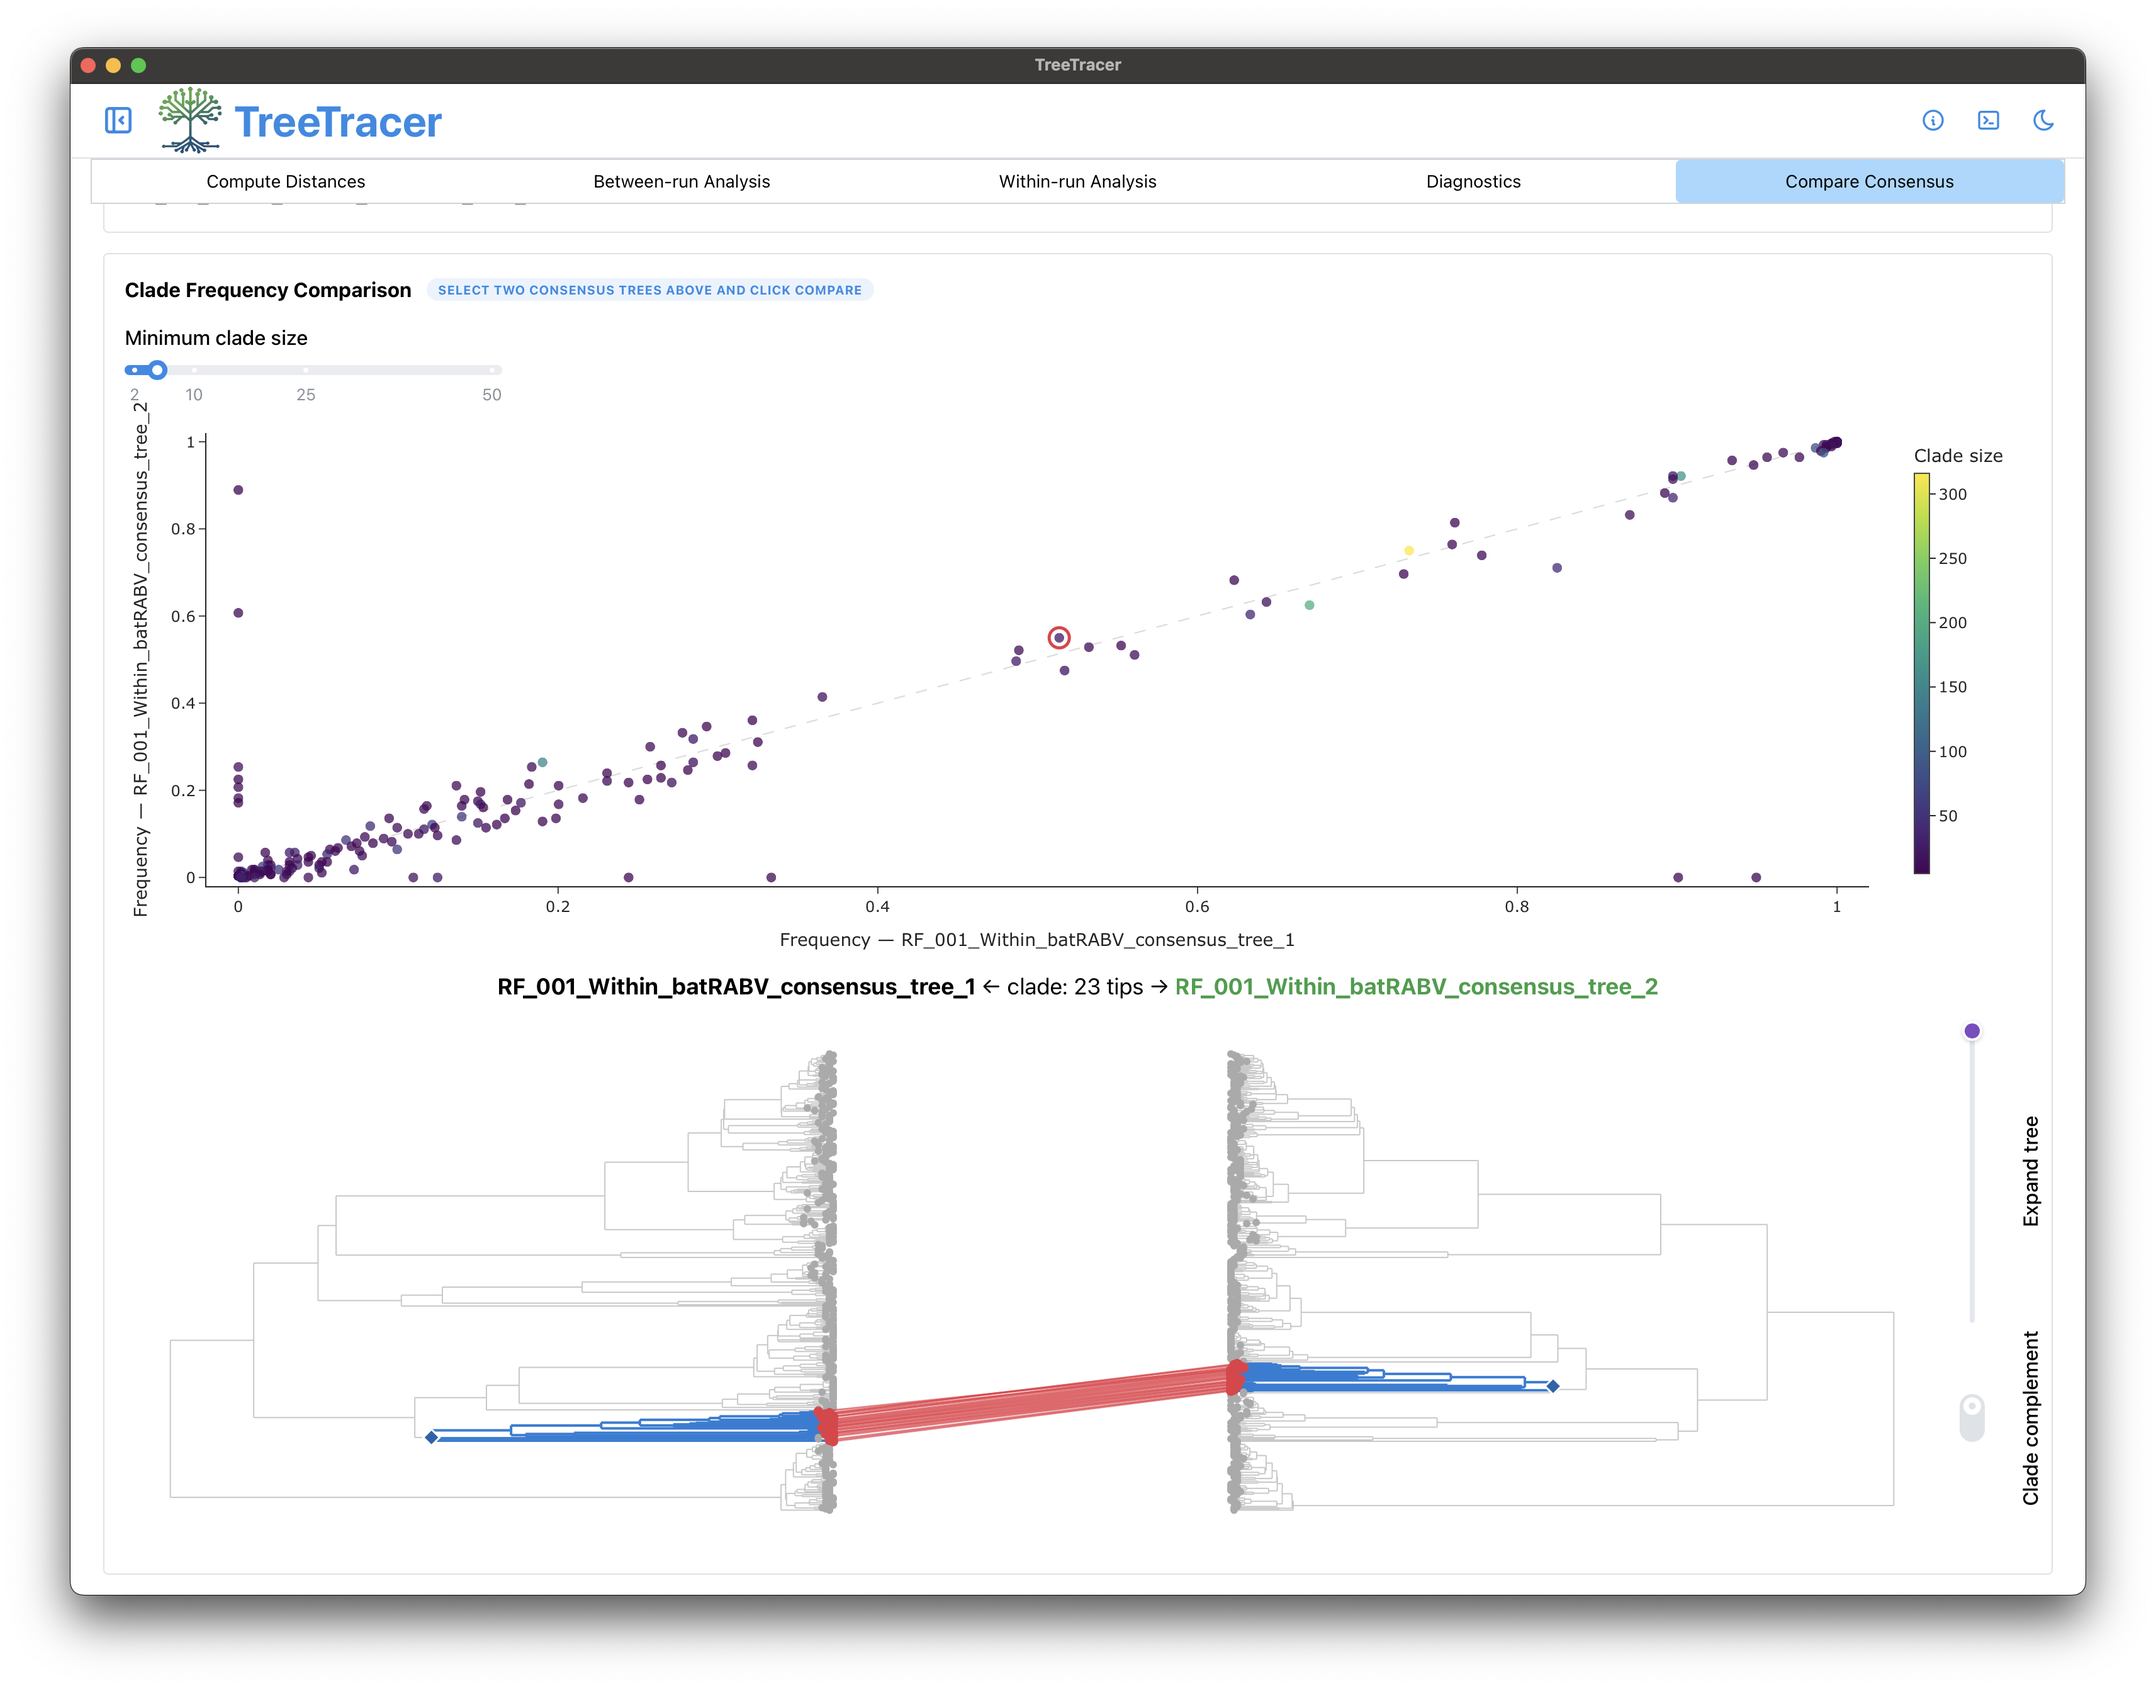
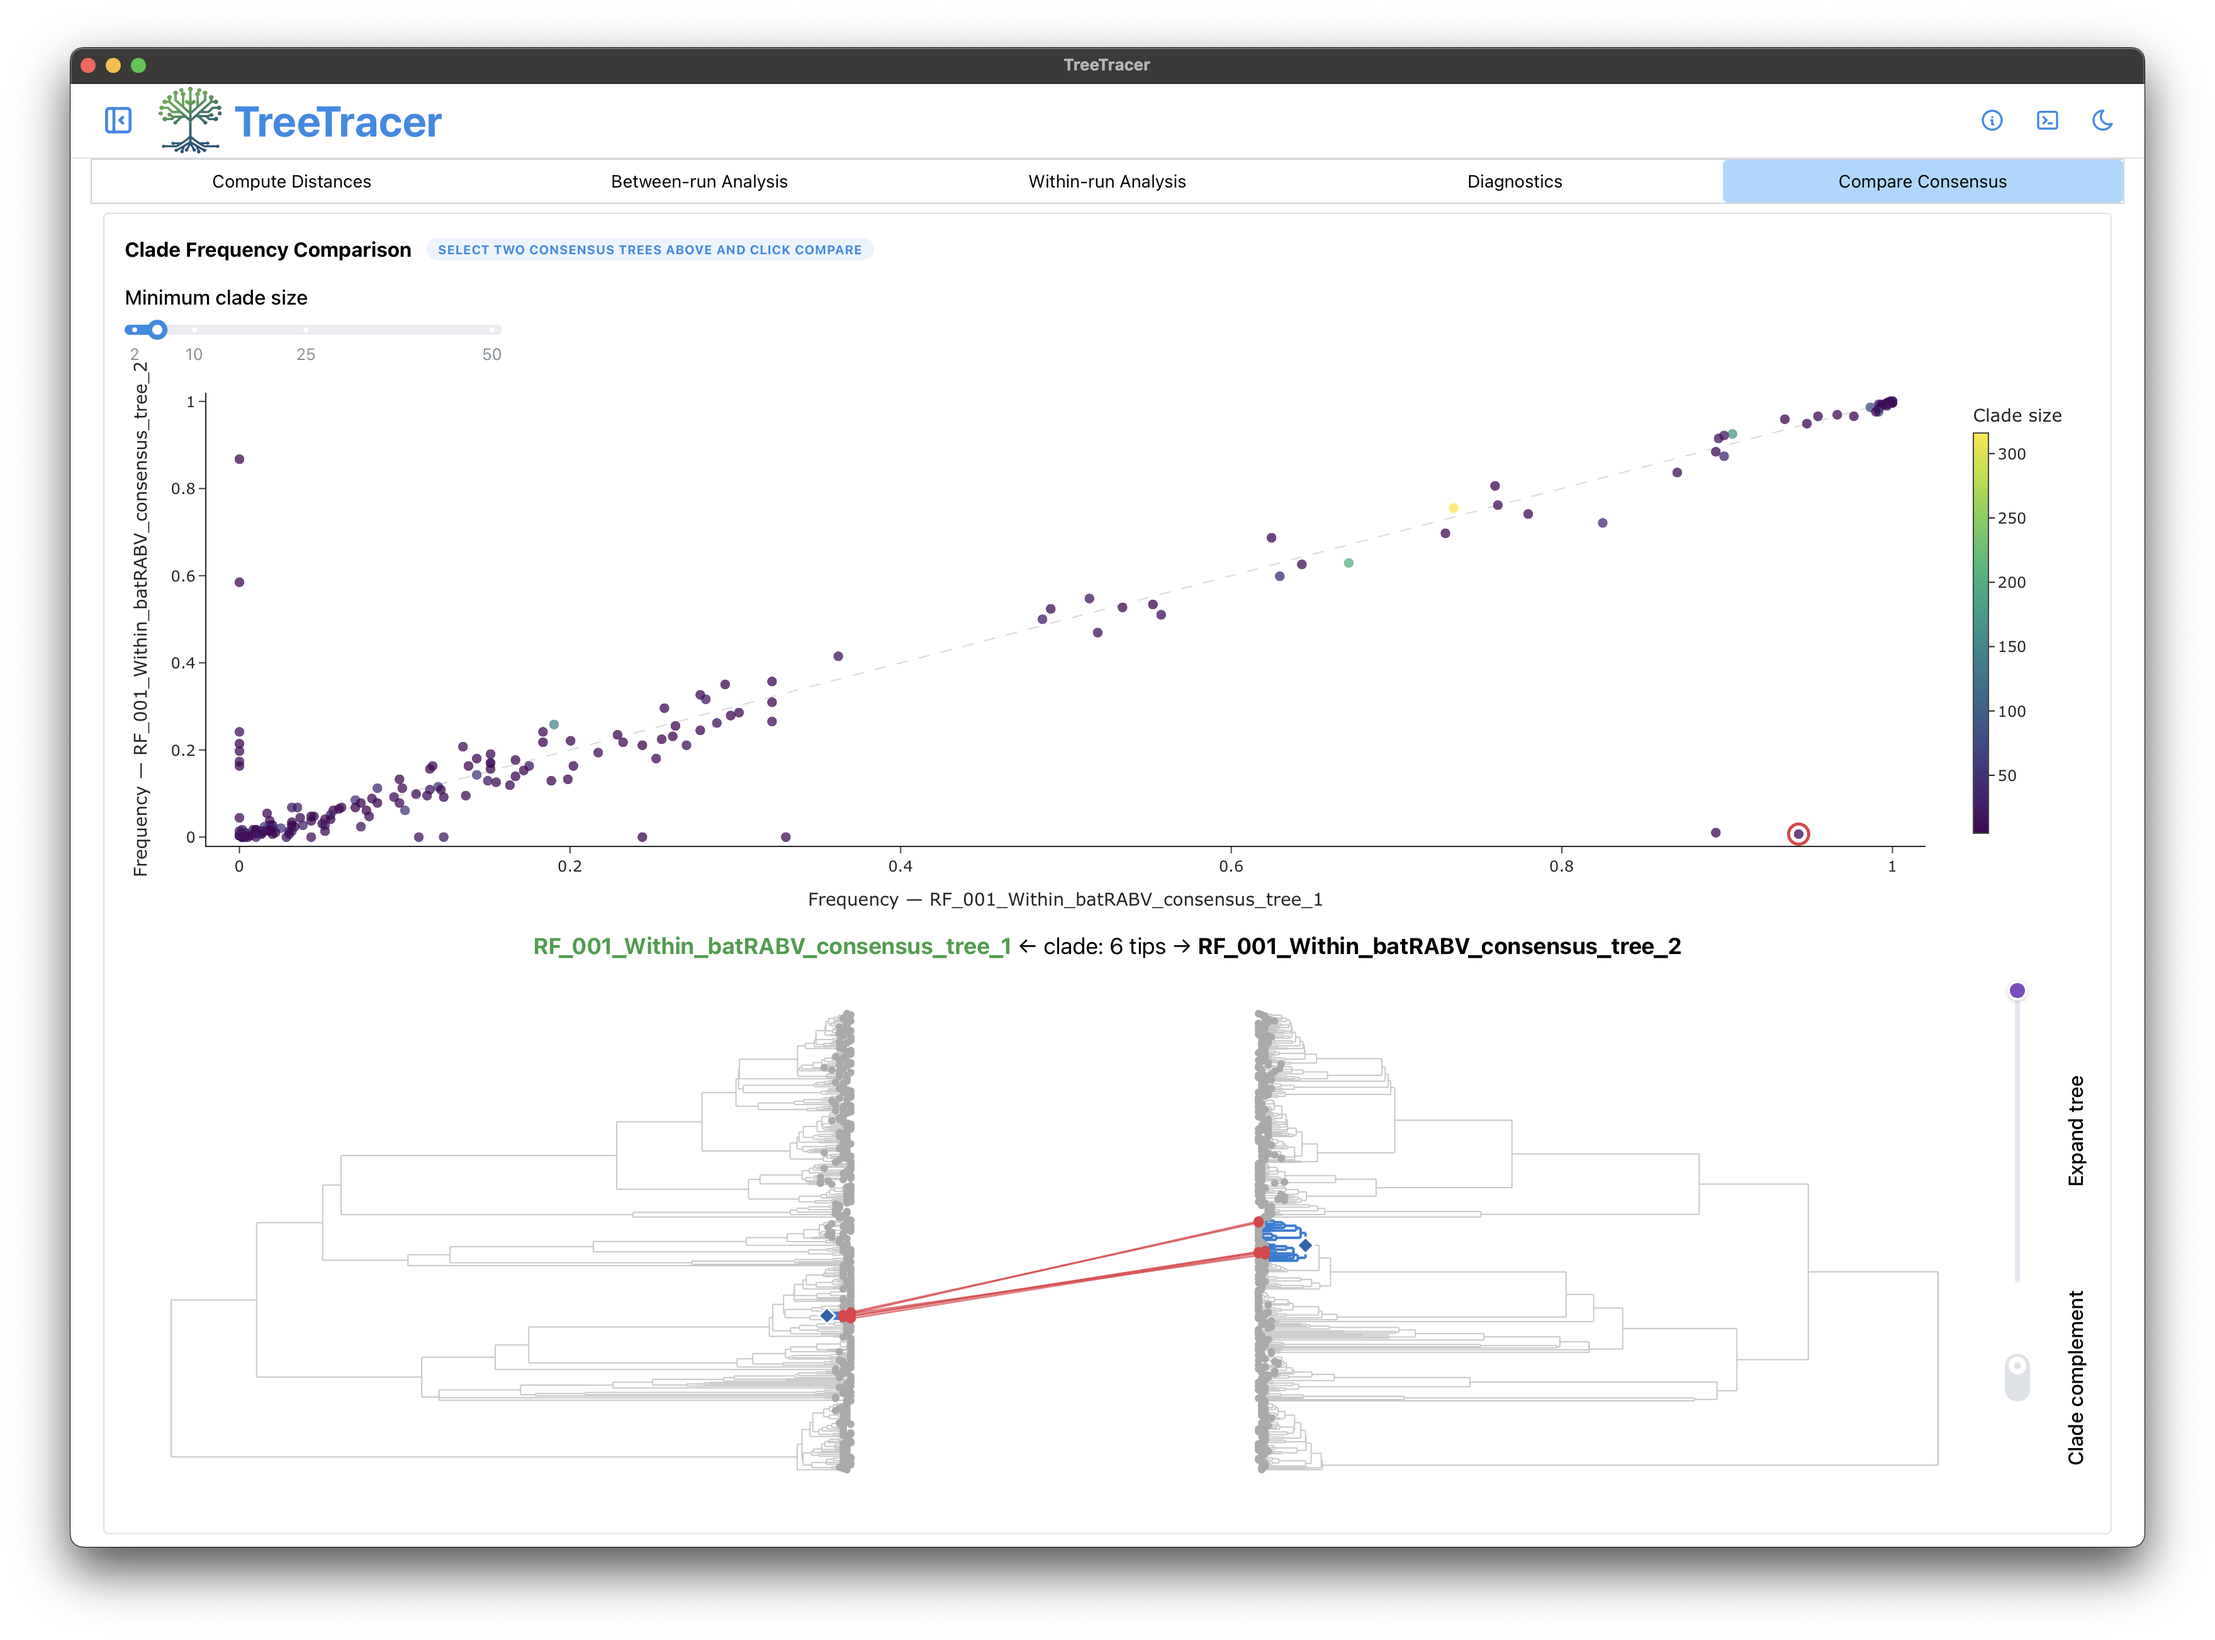
done with first draft of TreeTracer tutorial

diff --git a/tutorials/howtos/beast_analysing_beast_output.md b/tutorials/howtos/beast_analysing_beast_output.md
@@ -264,7 +264,7 @@ When creating the consensus tree, a pop-up window will appear that asks for a na
 
 {% include image.html file="treetracer11.png" prefix="/tutorials/howtos/" %}<br />
 
-If you also compute a consensus tree for the smaller point cloud and (again) accept the name provided by TreeTracer, you will see the following two consensus tree summaries appear in the Within-run Analysis panel.
+If you also compute a consensus tree for the smaller point cloud and (again) accept the name provided by TreeTracer, you will see the following two consensus tree summaries appear in the Within-run Analysis panel. We will compare these two consensus trees when we discuss the Compare Consensus panel.
 
 {% include image.html file="treetracer12.png" prefix="/tutorials/howtos/" %}<br />
 
@@ -276,15 +276,19 @@ We can also have TreeTracer create a trace plot of the RF distances between the 
 
 {% include image.html file="treetracer14.png" prefix="/tutorials/howtos/" %}<br />
 
-While visual exploration of tree space is highly valuable, it remains difficult to determine whether your BEAST analysis has run for sufficiently long. To this end and similar to what Tracer does, TreeTracer provides the possibility of computing a **tree ESS** value to determine whether your BEAST analysis has collected a sufficient number of independent samples from its posterior distribution. Click Computer Tree-ESS to start computing the tree ESS, which can take up more time than the various calculations performed so far.
+While visual exploration of tree space is highly valuable, it remains difficult to determine whether your BEAST analysis has run for sufficiently long. To this end and similar to what Tracer does, TreeTracer provides the possibility of computing a **tree ESS** value to determine whether your BEAST analysis has collected a sufficient number of independent samples from its posterior distribution. Click Computer Tree-ESS to start computing the tree ESS, which can take up more time than the various calculations performed so far. Interpreting the tree ESS value is currently based on the work of Lanfear et al. (2016) regarding the pseudo-ESS approach, and our own evaluation regarding the performance of the minimum pseudo-ESS and the median pseudo-ESS methods (Brusselmans et al., 2024). This was in turn based on the work of Magee et al. (2024), who found the median pseudo-ESS to have good performance properties. The minimum pseudo-ESS can be considered a (very) conservative option. Following Lanfear et al. (2016), you can use a tree ESS cut-off of 200 for the median pseudo-ESS; we hence use the same coloring scheme for the median pseudo-ESS as in Tracer.
 
 {% include image.html file="treetracer15.png" prefix="/tutorials/howtos/" %}<br />
 
-Interpreting the tree ESS value is currently based on the work of Lanfear et al. (2016) regarding the pseudo-ESS approach, and our own evaluation regarding the performance of the minimum pseudo-ESS and the median pseudo-ESS methods (Brusselmans et al., 2024). 
+Finally, we inspect the Compare Consensus panel where we find our two previously computed consensus trees. We select the two trees in order for the Group 1 (Consensus tree) and Group 2 (Consensus tree) respectively.
 
 {% include image.html file="treetracer16.png" prefix="/tutorials/howtos/" %}<br />
 
+This will enable clicking the Compare Clade Frequencies button to construct a scatter plot of the clade frequencies in both trees.
+
 {% include image.html file="treetracer17.png" prefix="/tutorials/howtos/" %}<br />
+
+We can now compare the consensus trees - with highlighted clades in both trees - for each point in the scatter plot, simply by clicking one of the points. Of main interest are those clades that appear often in the sampled posterior trees that make up one mode, but rarely in the sampled posterior trees that make up the other mode. To this end, we can select any point close to the X-axis or the Y-axis. The figure below shows such a clade (made up of 6 tips / sequences) that almost always clusters together in the large mode, but never in the smaller mode. These sequences could hence warrant further inspection (e.g. for reassortment, recombination, specific mutations, ...); we refer to Gao et al. (2026) for examples of such inspections.
 
 {% include image.html file="treetracer18.png" prefix="/tutorials/howtos/" %}<br />
 
